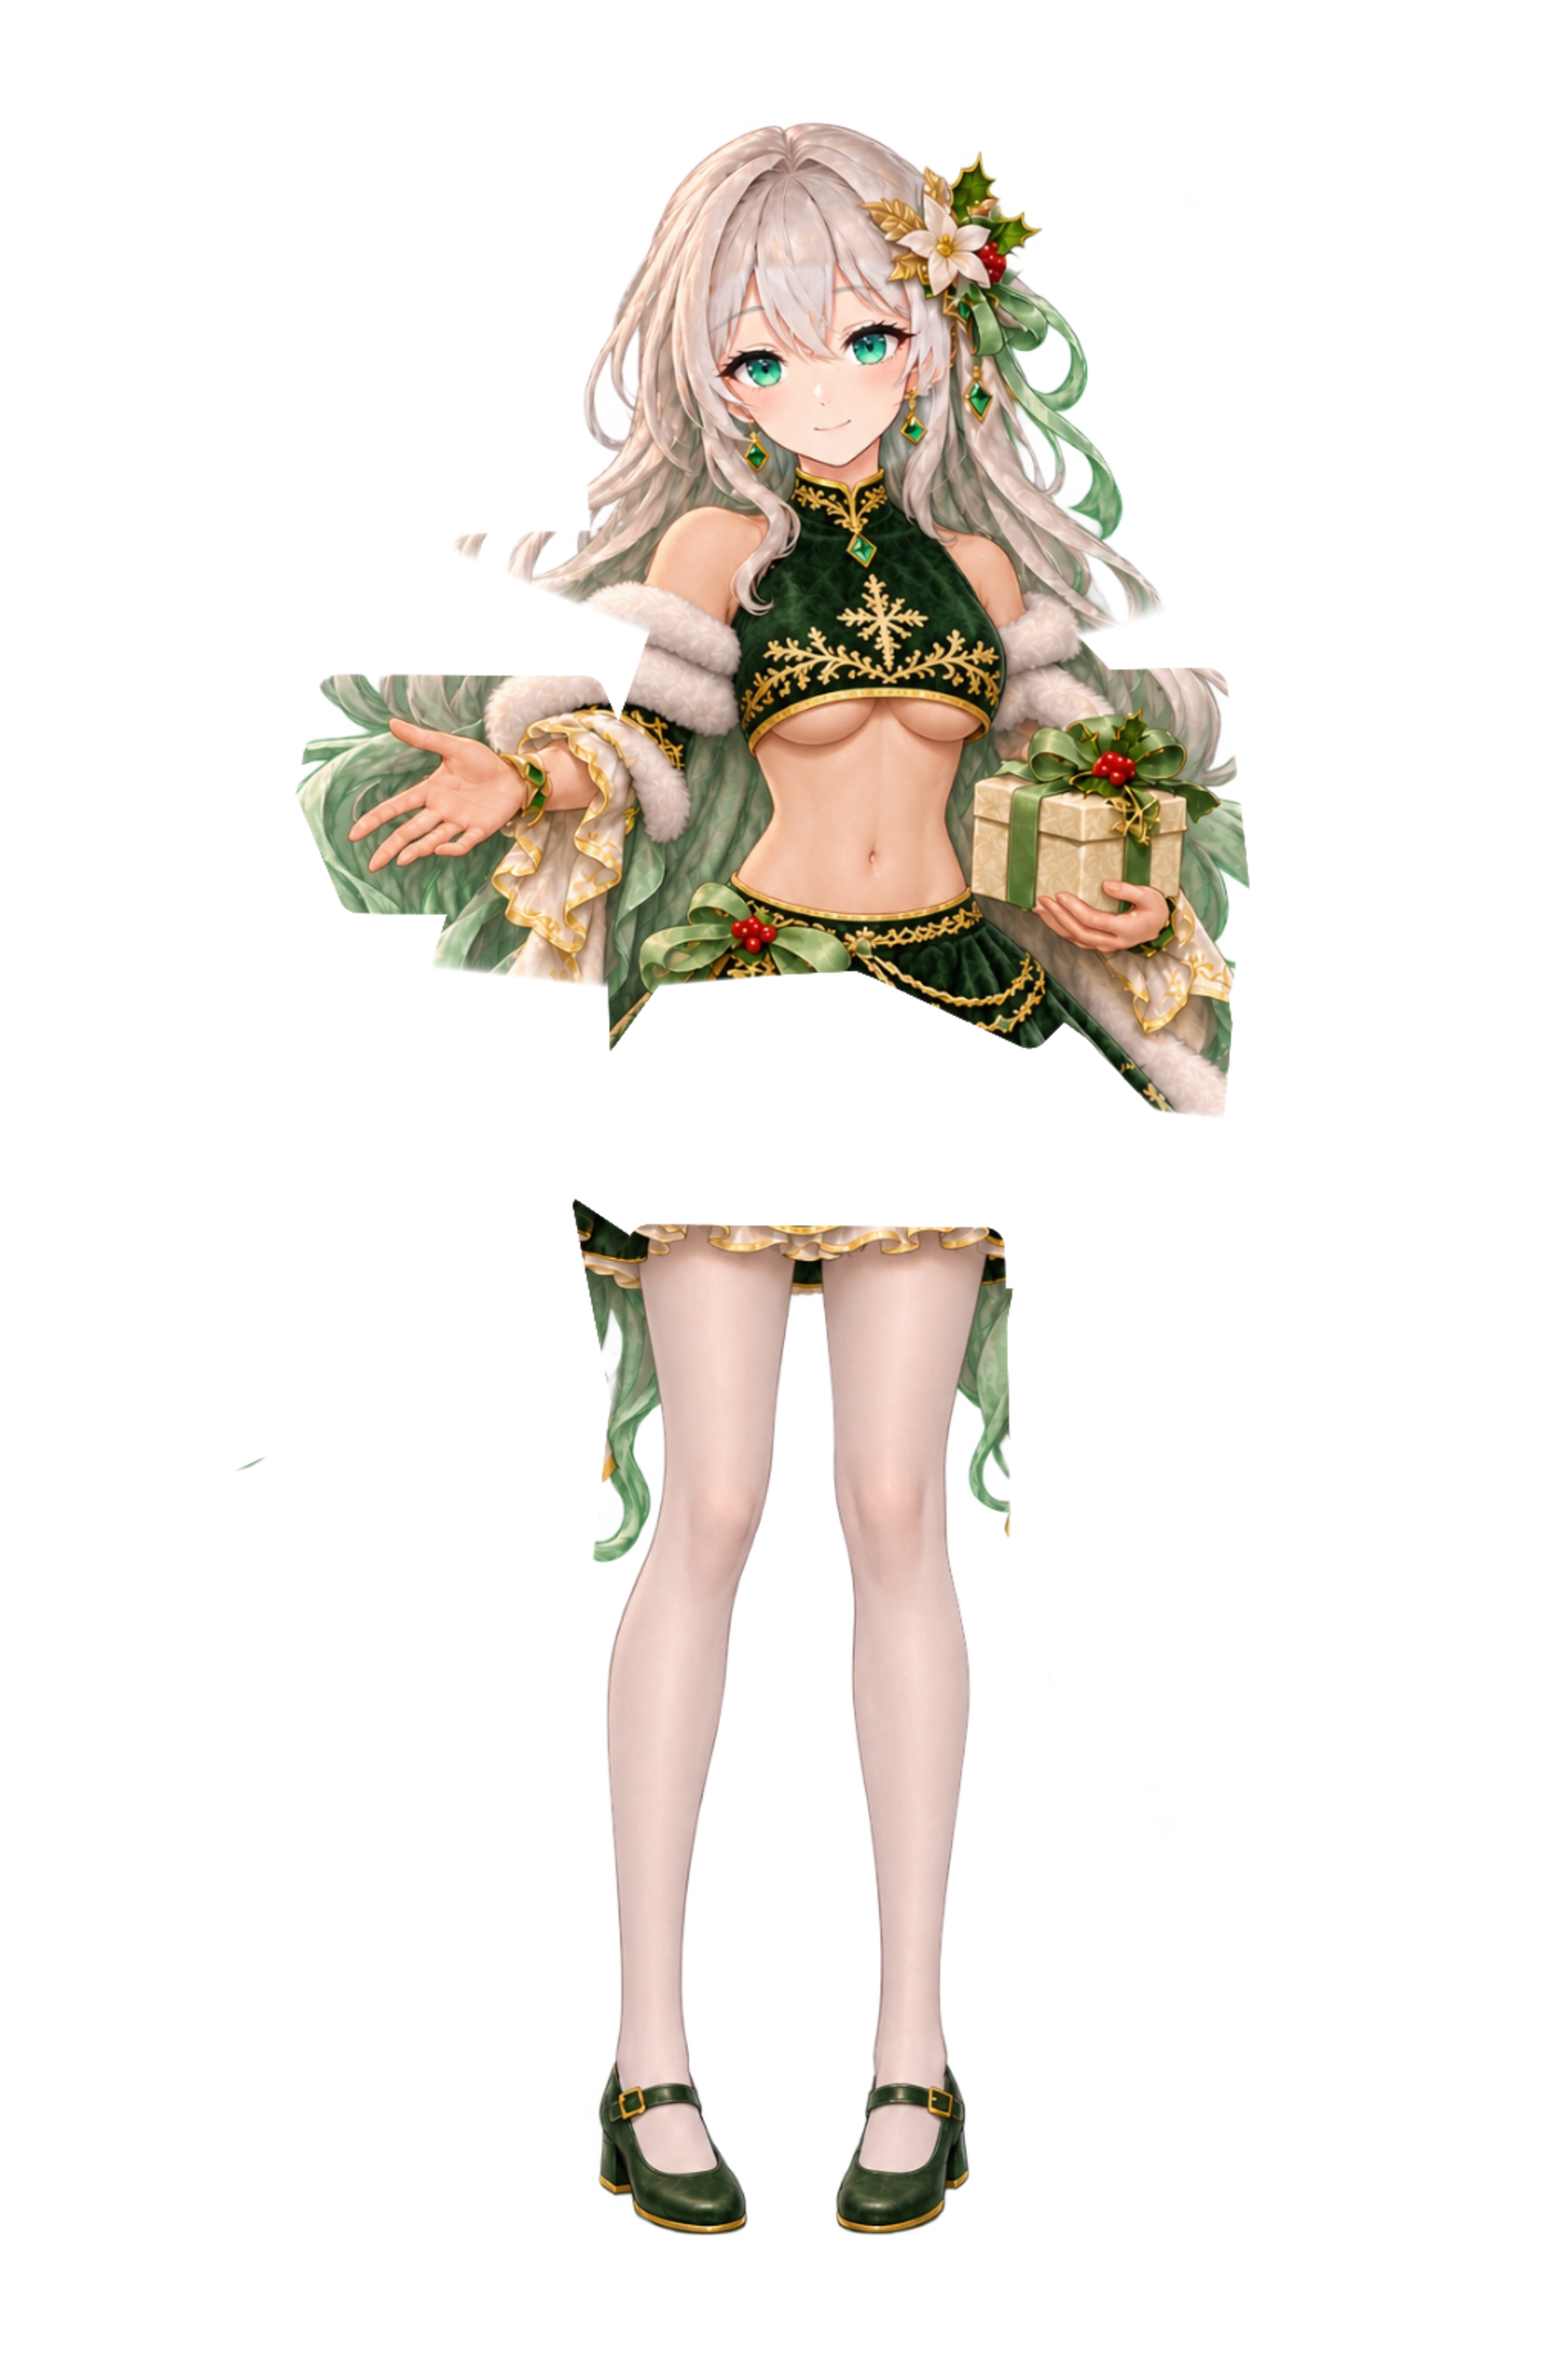
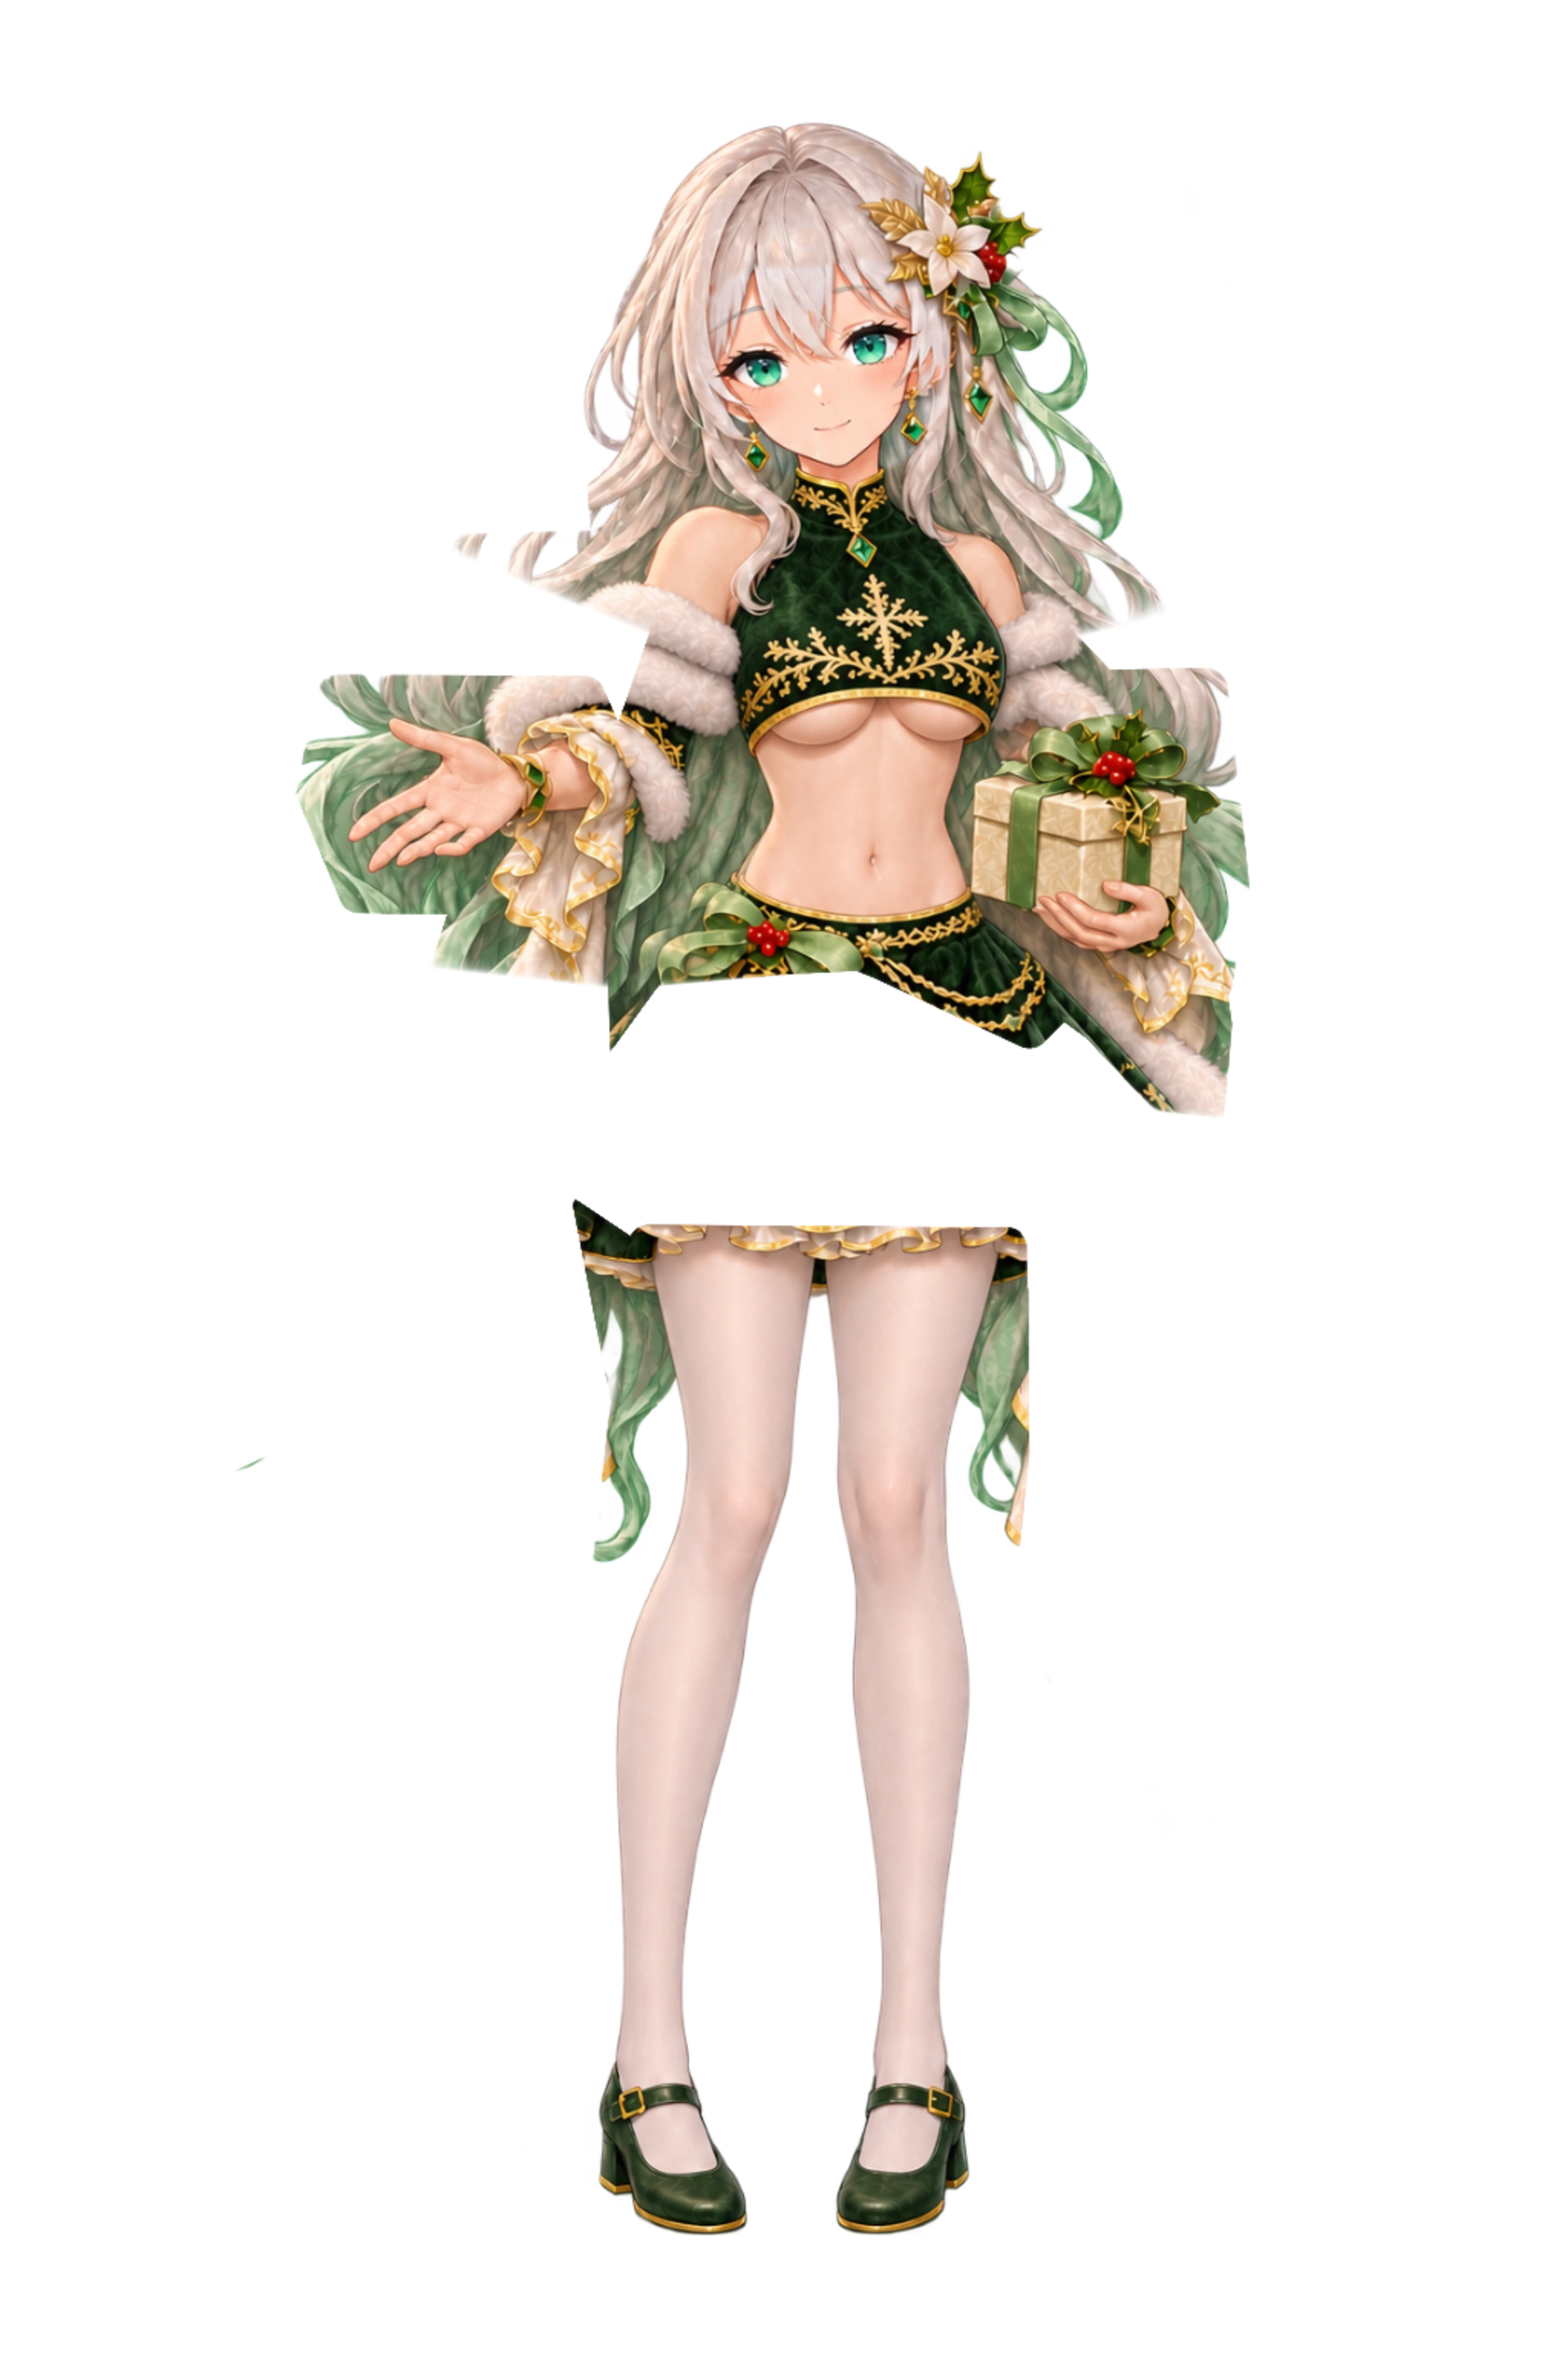
fix: refine Christmas ChatGPT posture and skin palette

Changed region(s): [[0.4062, 0.5, 0.6562, 0.8125], [0.4062, 0.375, 0.6562, 0.4375], [0.375, 0.6875, 0.4062, 0.8125]]

diff --git a/web/src/user/activities/gacha/christmas/rigs.ts b/web/src/user/activities/gacha/christmas/rigs.ts
@@ -209,8 +209,8 @@ export const christmasRigs: Record<ChristmasCard, ChristmasRig> = {
       ],
       [
         [414, 818],
-        [657, 820],
-        [661, 969],
+        [674, 820],
+        [675, 969],
         [660, 1114],
         [674, 1295],
         [674, 1558],

diff --git a/web/public/assets/gacha/NOTICE.md b/web/public/assets/gacha/NOTICE.md
@@ -27,8 +27,10 @@ faces, hands, legs and standing positions across cards and site appearances.
 
 Christmas ChatGPT uses a localized facial refinement referenced to her established
 character portrait and earlier cards. Mint-green irises, softer facial planes and
-cleaner illustrated features replace the previous face. Only the registered face
-region is adopted; the original costume, hands, pose and source alpha remain.
+cleaner illustrated features replace the previous face. A subsequent local
+refinement connects the waist, pelvis and thighs more naturally while preserving
+the established face shape, costume, hands and foot placement. Exposed skin uses
+a consistent warm-peach palette with the original painted shading and texture.
 Fresh eye contours and closed-eye art share that registration, as do the card,
 transparent body, five-character illustration and pool-cover derivatives.
 

diff --git a/CHANGELOG.md b/CHANGELOG.md
@@ -29,7 +29,8 @@ Each version entry describes its source and compatibility boundary; a release ta
   visibly while seams and hand contacts stay fixed; ornaments follow their
   attachments, with matching static and high-resolution artwork.
 - Align Christmas ChatGPT's face and eye animation with her established
-  character design, including the five-character illustration and pool cover.
+  character design, refine waist-to-hip alignment and harmonize exposed skin
+  tones, including the five-character illustration and pool cover.
 - Correct both hands in Fairytale Theatre Gemini, remove stray fingers from
   Summer Fireworks ChatGPT, and refine finger shapes in Origin Echo DeepSeek,
   Myriad Forms ChatGPT and the Fairytale Theatre group illustration.
